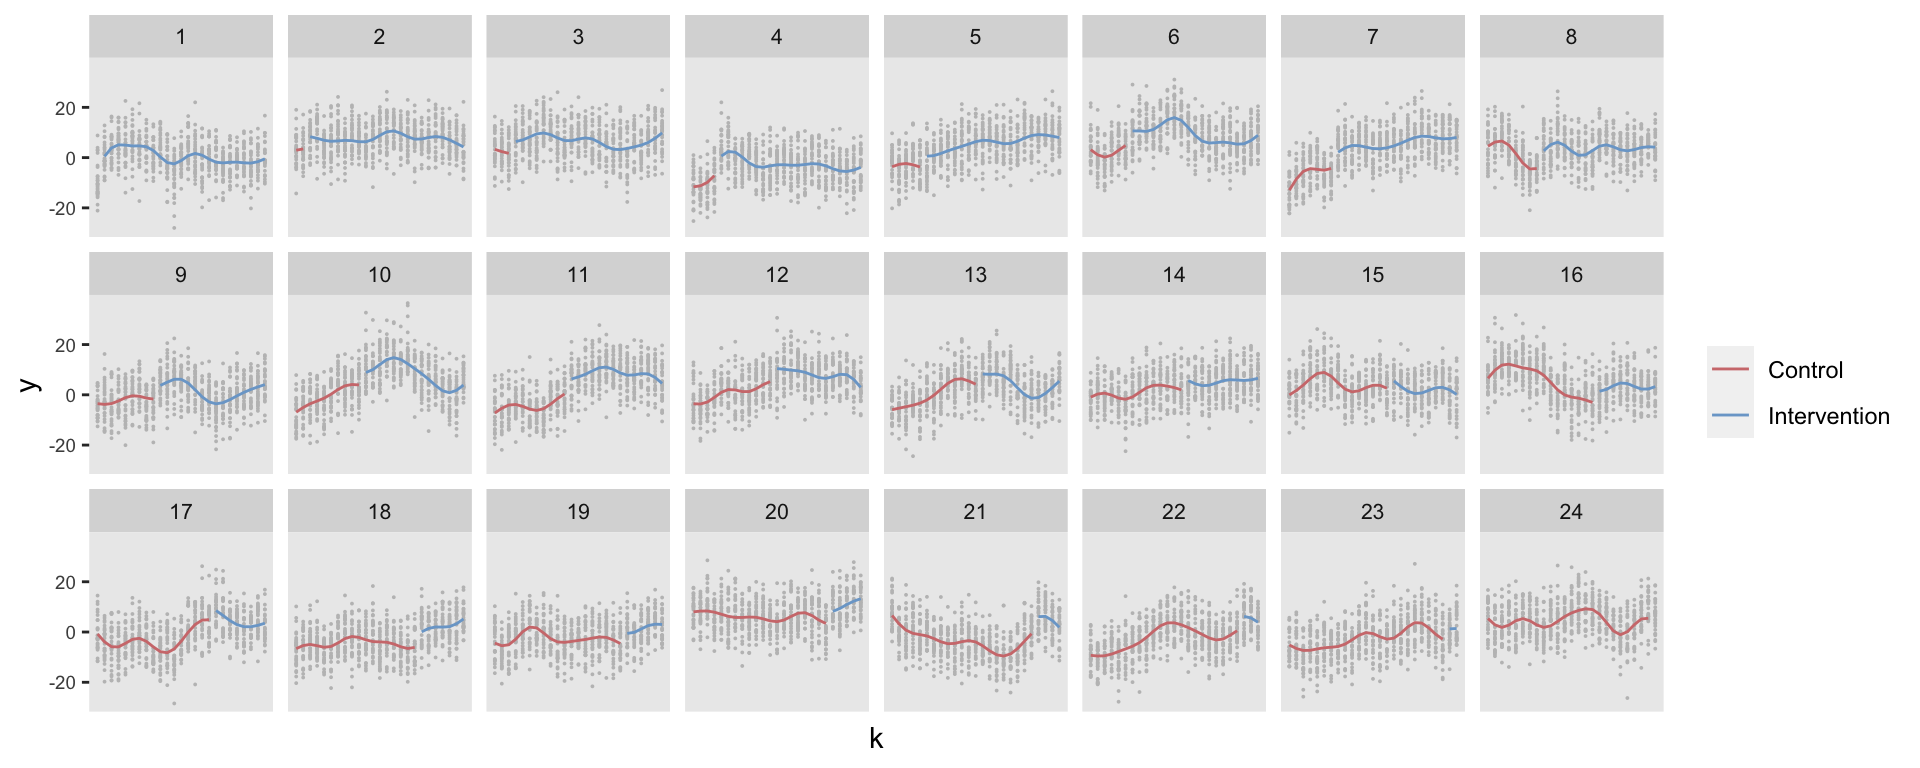
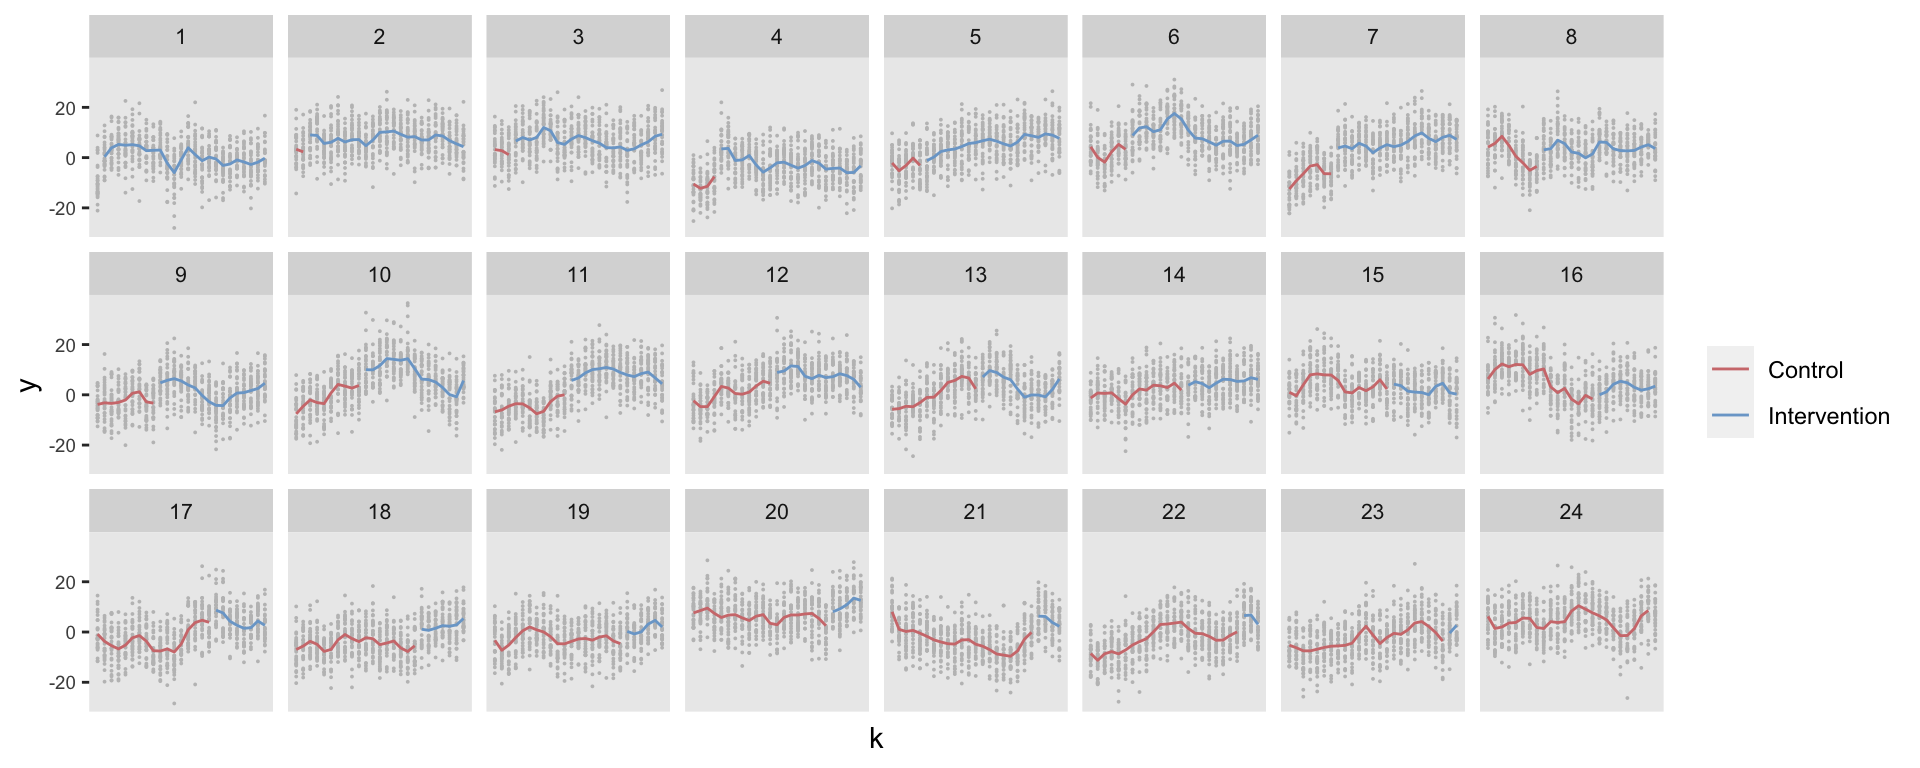
Updating draft

diff --git a/content/post/2022-12-13-modeling-the-secular-trend-in-a-stepped-wedge-design/index.en.html b/content/post/2022-12-13-modeling-the-secular-trend-in-a-stepped-wedge-design/index.en.html
@@ -110,11 +110,12 @@ dd &lt;- addColumns(defOut, dd)</code></pre>
 </div>
 <div id="model-estimation" class="section level3">
 <h3>Model estimation</h3>
-<p>I am fitting three models to this simulated data set: (1) specific (fixed) time period effects, (2), a mixed effects model with a random cubic spline for the period effect for each site, and (3) a generalized additive model with a site-specific smooth function for time. For each one, I will plot the predicted values over the actual data points.</p>
-<p>Since there is only so much one can glean from a single data set, I’ve also conducted a experiment using 5000 replicated data sets to see how each model really performs with respect to the estimation of the treatment effect. I’ll report the bias of the estimate, the root mean squared error (RMSE), the true standard error of the estimate, the average estimated standard error, and the coverage rate (i.e. proportion of 95% confidence intervals that include the true value 5).</p>
-<div id="fixed-time-period-effects" class="section level4">
-<h4>Fixed time-period effects</h4>
-<pre class="r"><code>fitlme_k &lt;- lmer(y ~ A + factor(k) - 1 + (1|site)  , data = dd)
+<p>I am fitting three models to this simulated data set: (1) a mixed effects model with fixed time period effects, (2), a mixed effects model with a random cubic spline for the period effect for each site, and (3) a generalized additive model with a site-specific smooth function for time. For each estimated model, I’m plotting the predicted values over the actual data points.</p>
+<p>Since there is only so much one can glean from a single data set, I’ve also conducted an experiment using 5000+ replicated data sets to see how each model really performs with respect to the estimation of the treatment effect. (Code for these replications can be found <a href="https://github.com/kgoldfeld/RDataGenBlog/blob/master/content/post/2022-12-13-modeling-the-secular-trend-in-a-stepped-wedge-design/replications/reps_hpc.R" target="_blank">here</a>). These replications provide information about some operating characteristics of the model approaches (estimated bias, root mean squared error (RMSE), average estimated standard error, and coverage rate, i.e. proportion of 95% confidence intervals that include the true value 5).</p>
+<div id="mixed-effects-model-with-fixed-time-period-effects" class="section level4">
+<h4>Mixed effects model with fixed time-period effects</h4>
+<p>Here’s the first model. Note that I am not estimating an intercept so that each period effect is directly estimated. (I did try to estimate site-specific period random effects, but it proved too computationally intensive for my computer, which grinded away for a half hour before I mercifully stopped it). THe model does include a site-specific random intercept.</p>
+<pre class="r"><code>fitlme_k &lt;- lmer(y ~ A + factor(k) - 1 + (1|site), data = dd)
 summary(fitlme_k)</code></pre>
 <pre><code>## Linear mixed model fit by REML [&#39;lmerMod&#39;]
 ## Formula: y ~ A + factor(k) - 1 + (1 | site)
@@ -160,14 +161,17 @@ summary(fitlme_k)</code></pre>
 ## factor(k)22 -1.32576    0.74050  -1.790
 ## factor(k)23 -1.12176    0.74229  -1.511
 ## factor(k)24 -1.31230    0.74417  -1.763</code></pre>
+<p>The predicted values indicate that the model does not pick up the site-specific variation over time:</p>
 <p><img src="{{< blogdown/postref >}}index.en_files/figure-html/unnamed-chunk-7-1.png" width="960" /></p>
+<p>We can see that the estimate from this single data of the treatment effect is 5.8 [95% CI: 5.5, 6.2]. Based on the replications, however, the treatment effect estimate from this model is actually <em>unbiased</em>. However, RMSE = 0.97 (which is equivalent to the true variation or standard error of the estimated treatment effect since there is no bias), but the average estimated standard error was only 0.18, and the coverage of the 95% CIs was only 29%. This model doesn’t seem all that promising.</p>
 </div>
 <div id="mixed-effects-model-with-site-specific-natural-cubic-spline" class="section level4">
 <h4>Mixed effects model with site-specific natural cubic spline</h4>
+<p>With the second model, also a mixed effects model, I’ve included a random cubic spline (based on four knots) instead of the random intercept:</p>
 <pre class="r"><code>dd[, normk := (k - min(k))/(max(k) - min(k))]
 knots &lt;- c(.2, .4, .6, .8)
 
-fitlme_s &lt;- lmer(y ~ A + ( ns(normk, knots = knots) - 1 | site)  , data = dd) # 4
+fitlme_s &lt;- lmer(y ~ A + ( ns(normk, knots = knots) - 1 | site), data = dd)
 summary(fitlme_s)</code></pre>
 <pre><code>## Linear mixed model fit by REML [&#39;lmerMod&#39;]
 ## Formula: y ~ A + (ns(normk, knots = knots) - 1 | site)
@@ -197,54 +201,37 @@ summary(fitlme_s)</code></pre>
 ## Correlation of Fixed Effects:
 ##   (Intr)
 ## A -0.088</code></pre>
+<p>Now we can see that the model predictions reflect the site-specific time trends:</p>
 <p><img src="{{< blogdown/postref >}}index.en_files/figure-html/unnamed-chunk-9-1.png" width="960" /></p>
+<p>This model also provides an unbiased estimate (in the case of the first data set, the estimate was spot on 5.0 [4.4, 5.6].) The RMSE was lower than the first model (0.78) and the average estimate of the standard error was slightly higher (0.31). The coverage was also higher, but still only 57%. There is room for improvement.</p>
 </div>
 <div id="gam-with-site-specific-smoother" class="section level4">
 <h4>GAM with site-specific smoother</h4>
-<pre class="r"><code>gamfit &lt;- gam(y ~ A + s(k, site, bs = &quot;fs&quot;, k = 10), data = dd)
+<p>This last model is a GAM, and I use the <code>gam</code> function from the <code>mgcv</code> package. A key parameters in the smoothing function <code>s</code> is the <em>bs</em> argument for the type of basis spline. I’ve used “fs”, which allows for “random factor smooth interactions,” which is what we need here. In addition, the dimension of the basis (the argument <em>k</em>, not to be confused with the period <em>k</em>), was set by evaluating the selection criterion (GCV).</p>
+<pre class="r"><code>gamfit &lt;- gam(y ~ A + s(k, site, bs = &quot;fs&quot;, k = 20), data = dd)
 summary(gamfit)</code></pre>
 <pre><code>## 
 ## Family: gaussian 
 ## Link function: identity 
 ## 
 ## Formula:
-## y ~ A + s(k, site, bs = &quot;fs&quot;, k = 10)
+## y ~ A + s(k, site, bs = &quot;fs&quot;, k = 20)
 ## 
 ## Parametric coefficients:
 ##             Estimate Std. Error t value Pr(&gt;|t|)    
-## (Intercept)  -0.2515     0.6203  -0.405    0.685    
-## A             4.8612     0.4175  11.644   &lt;2e-16 ***
+## (Intercept)  -0.4669     0.7310  -0.639    0.523    
+## A             5.3006     0.5862   9.042   &lt;2e-16 ***
 ## ---
 ## Signif. codes:  0 &#39;***&#39; 0.001 &#39;**&#39; 0.01 &#39;*&#39; 0.05 &#39;.&#39; 0.1 &#39; &#39; 1
 ## 
 ## Approximate significance of smooth terms:
 ##             edf Ref.df     F p-value    
-## s(k,site) 223.8    239 38.41  &lt;2e-16 ***
+## s(k,site) 404.6    479 21.26  &lt;2e-16 ***
 ## ---
 ## Signif. codes:  0 &#39;***&#39; 0.001 &#39;**&#39; 0.01 &#39;*&#39; 0.05 &#39;.&#39; 0.1 &#39; &#39; 1
 ## 
-## R-sq.(adj) =  0.399   Deviance explained = 40.6%
-## GCV = 41.919  Scale est. = 41.393    n = 18000</code></pre>
+## R-sq.(adj) =  0.418   Deviance explained = 43.1%
+## GCV = 40.985  Scale est. = 40.059    n = 18000</code></pre>
 <p><img src="{{< blogdown/postref >}}index.en_files/figure-html/unnamed-chunk-11-1.png" width="960" /></p>
-<pre class="r"><code>dres[, .(lmek = mean(est.lmek), lmes = mean(est.lmes), gam = mean(est.gam))]</code></pre>
-<pre><code>##        lmek     lmes      gam
-## 1: 4.905926 4.907276 4.986498</code></pre>
-<pre class="r"><code>dres[, .(lmek = mean(se.lmek), lmes = mean(se.lmes), gam = mean(se.gam))]</code></pre>
-<pre><code>##         lmek      lmes       gam
-## 1: 0.1826432 0.3042101 0.4156805</code></pre>
-<pre class="r"><code>dres[, .(lmek = sd(est.lmek), lmes = sd(est.lmes), gam = sd(est.gam))]</code></pre>
-<pre><code>##         lmek      lmes       gam
-## 1: 0.9531896 0.6006919 0.6274533</code></pre>
-<pre class="r"><code>coverage &lt;- function(x, a, b) {
-  range &lt;- a + c(-1,1) * 1.96 * b
-  (range[1] &lt; x &amp; x &lt; range[2])
-}
-
-dres[, mean(mapply(&quot;coverage&quot;, 5, est.lmek, se.lmek))]</code></pre>
-<pre><code>## [1] 0.334</code></pre>
-<pre class="r"><code>dres[, mean(mapply(&quot;coverage&quot;, 5, est.lmes, se.lmes))]</code></pre>
-<pre><code>## [1] 0.667</code></pre>
-<pre class="r"><code>dres[, mean(mapply(&quot;coverage&quot;, 5, est.gam, se.gam))]</code></pre>
-<pre><code>## [1] 0.75</code></pre>
 </div>
 </div>
